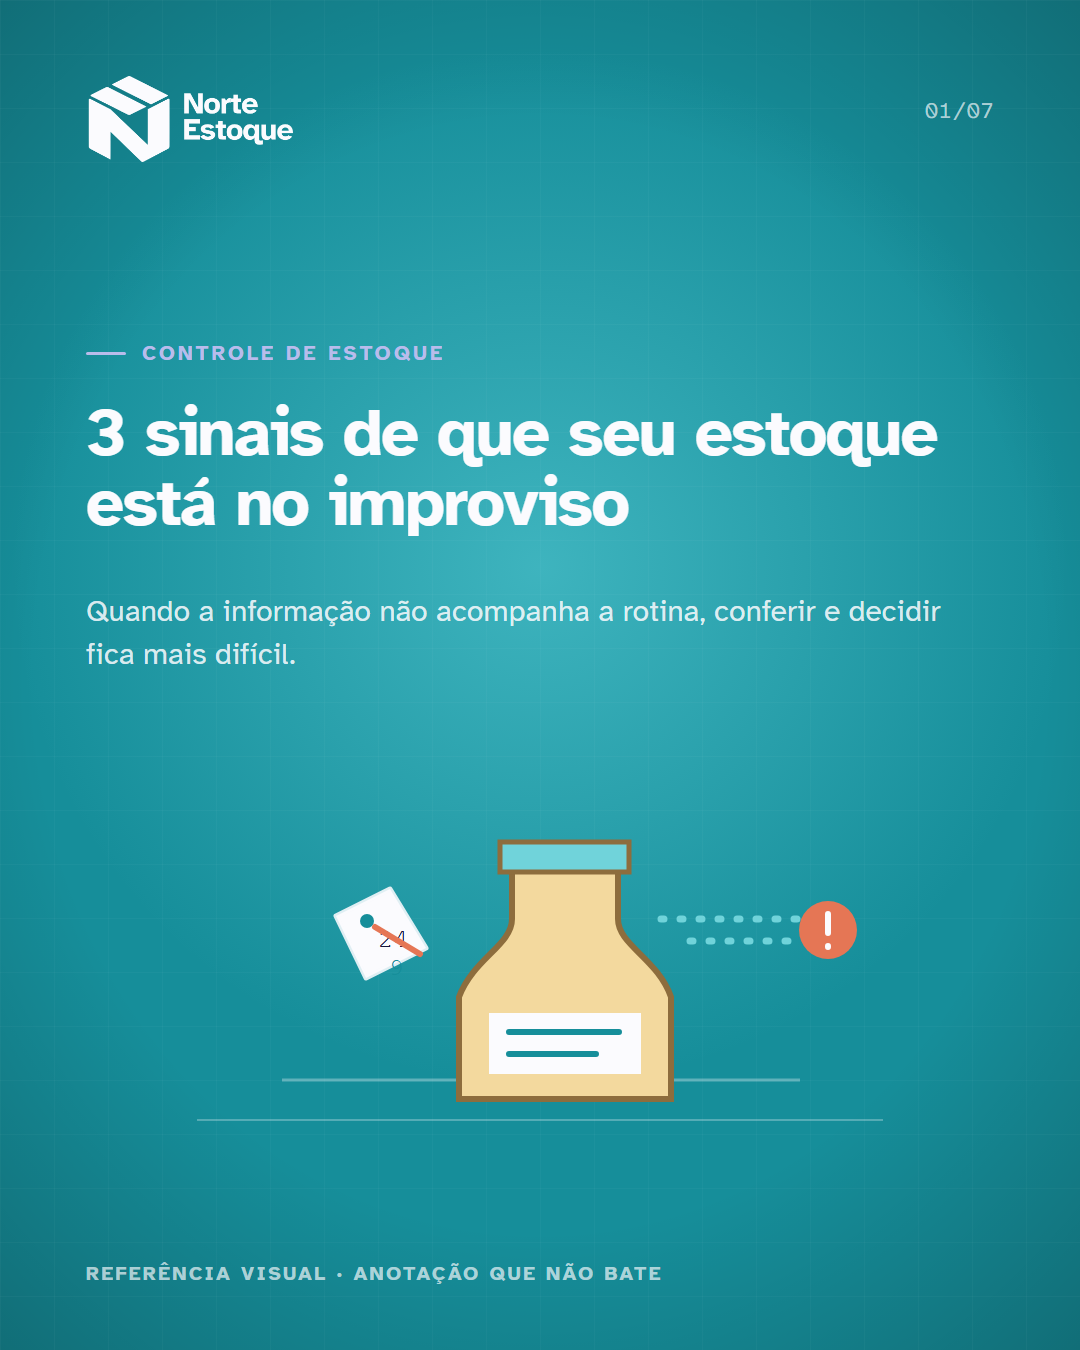
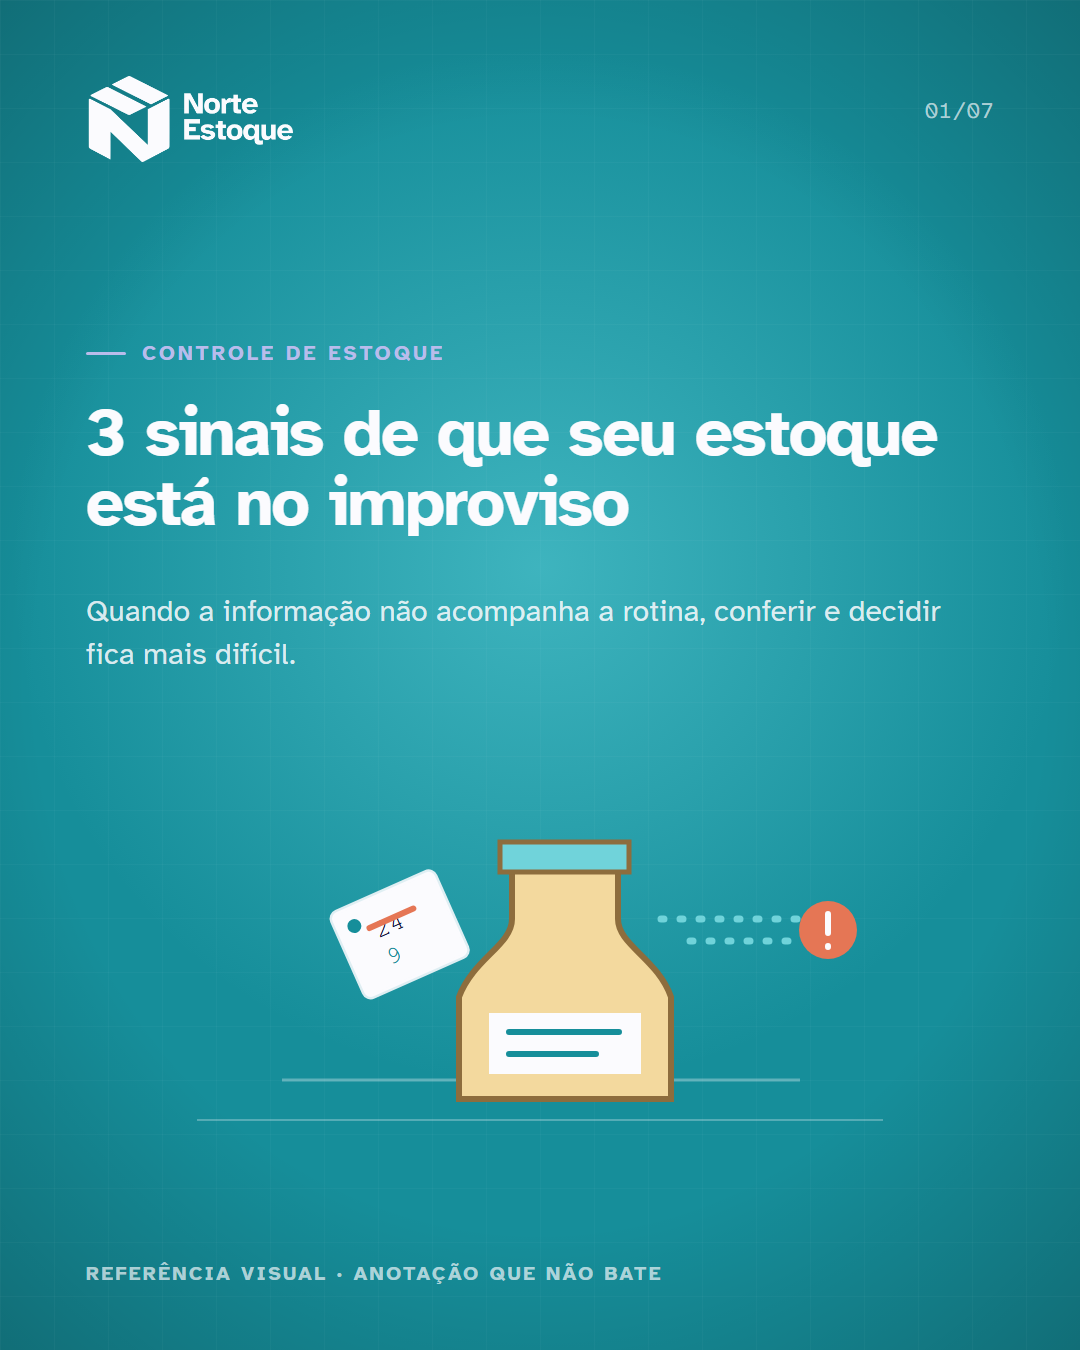
Align product tag cover reference

Changed region(s): [[0.3056, 0.6222, 0.4583, 0.7467]]

diff --git a/src/coverReferences/NorteEstoqueCoverReferences.tsx b/src/coverReferences/NorteEstoqueCoverReferences.tsx
@@ -82,11 +82,13 @@ const Etiqueta: React.FC = () => (
         <path d="M100 174H252V235H100Z" fill="#FBFBFE" />
         <path d="M120 193H230M120 215H207" stroke="#168E9A" strokeWidth="6" strokeLinecap="round" />
       </g>
-      <path d="M304 119L250 146L280 208L340 178Z" fill="#FBFBFE" stroke={STROKE} strokeWidth="5" strokeLinejoin="round" />
-      <circle cx="281" cy="151" r="7" fill="#168E9A" />
-      <text x="292" y="177" fill="#14163A" fontFamily="monospace" fontSize="25">24</text>
-      <path d="M289 157L334 184" stroke="#E57655" strokeWidth="6" strokeLinecap="round" />
-      <text x="303" y="205" fill="#168E9A" fontFamily="monospace" fontSize="24">9</text>
+      <g transform="rotate(-24 310 166)">
+        <rect x="258" y="120" width="112" height="92" rx="7" fill="#FBFBFE" stroke={STROKE} strokeWidth="5" />
+        <circle cx="276" cy="140" r="7" fill="#168E9A" />
+        <text x="293" y="161" fill="#14163A" fontFamily="monospace" fontSize="25">24</text>
+        <path d="M289 148L337 148" stroke="#E57655" strokeWidth="6" strokeLinecap="round" />
+        <text x="293" y="190" fill="#168E9A" fontFamily="monospace" fontSize="24">9</text>
+      </g>
       <path d="M575 149H720M604 171H710" stroke={TEAL} strokeWidth="7" strokeLinecap="round" strokeDasharray="3 16" />
       <circle cx="742" cy="160" r="29" fill="#E57655" />
       <path d="M742 144V163M742 176V177" stroke={WHITE} strokeWidth="6" strokeLinecap="round" />
